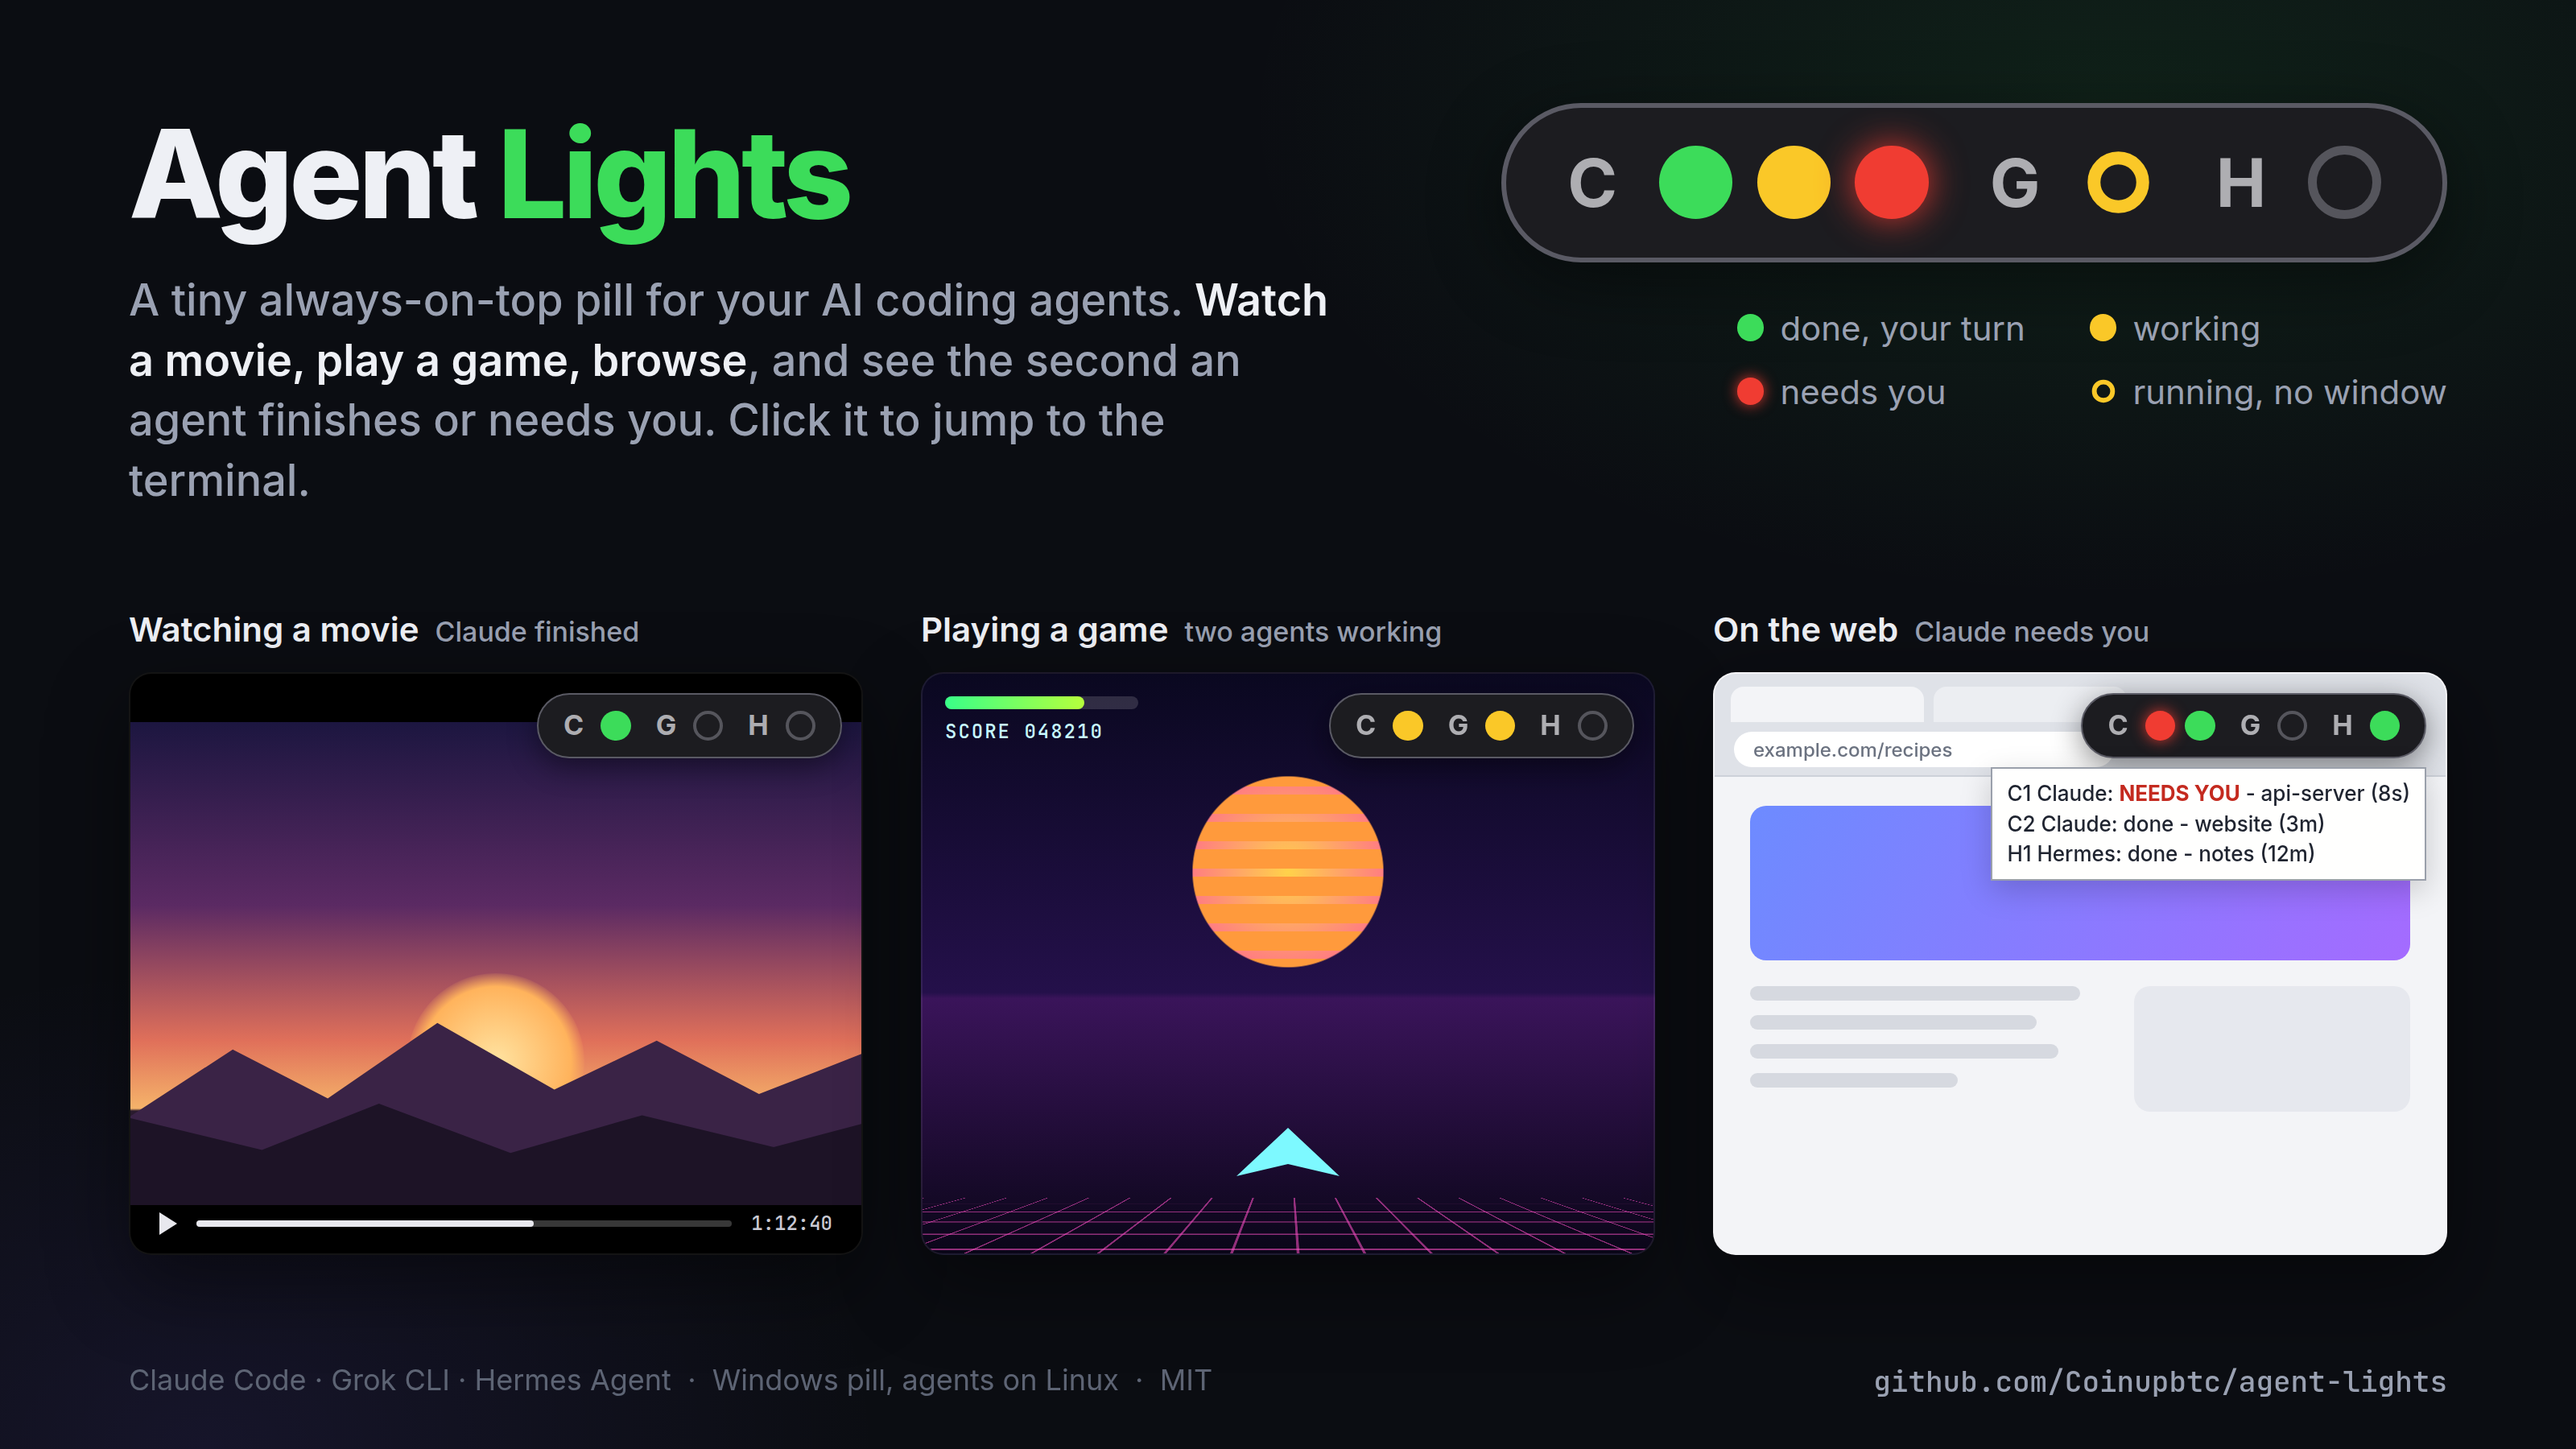
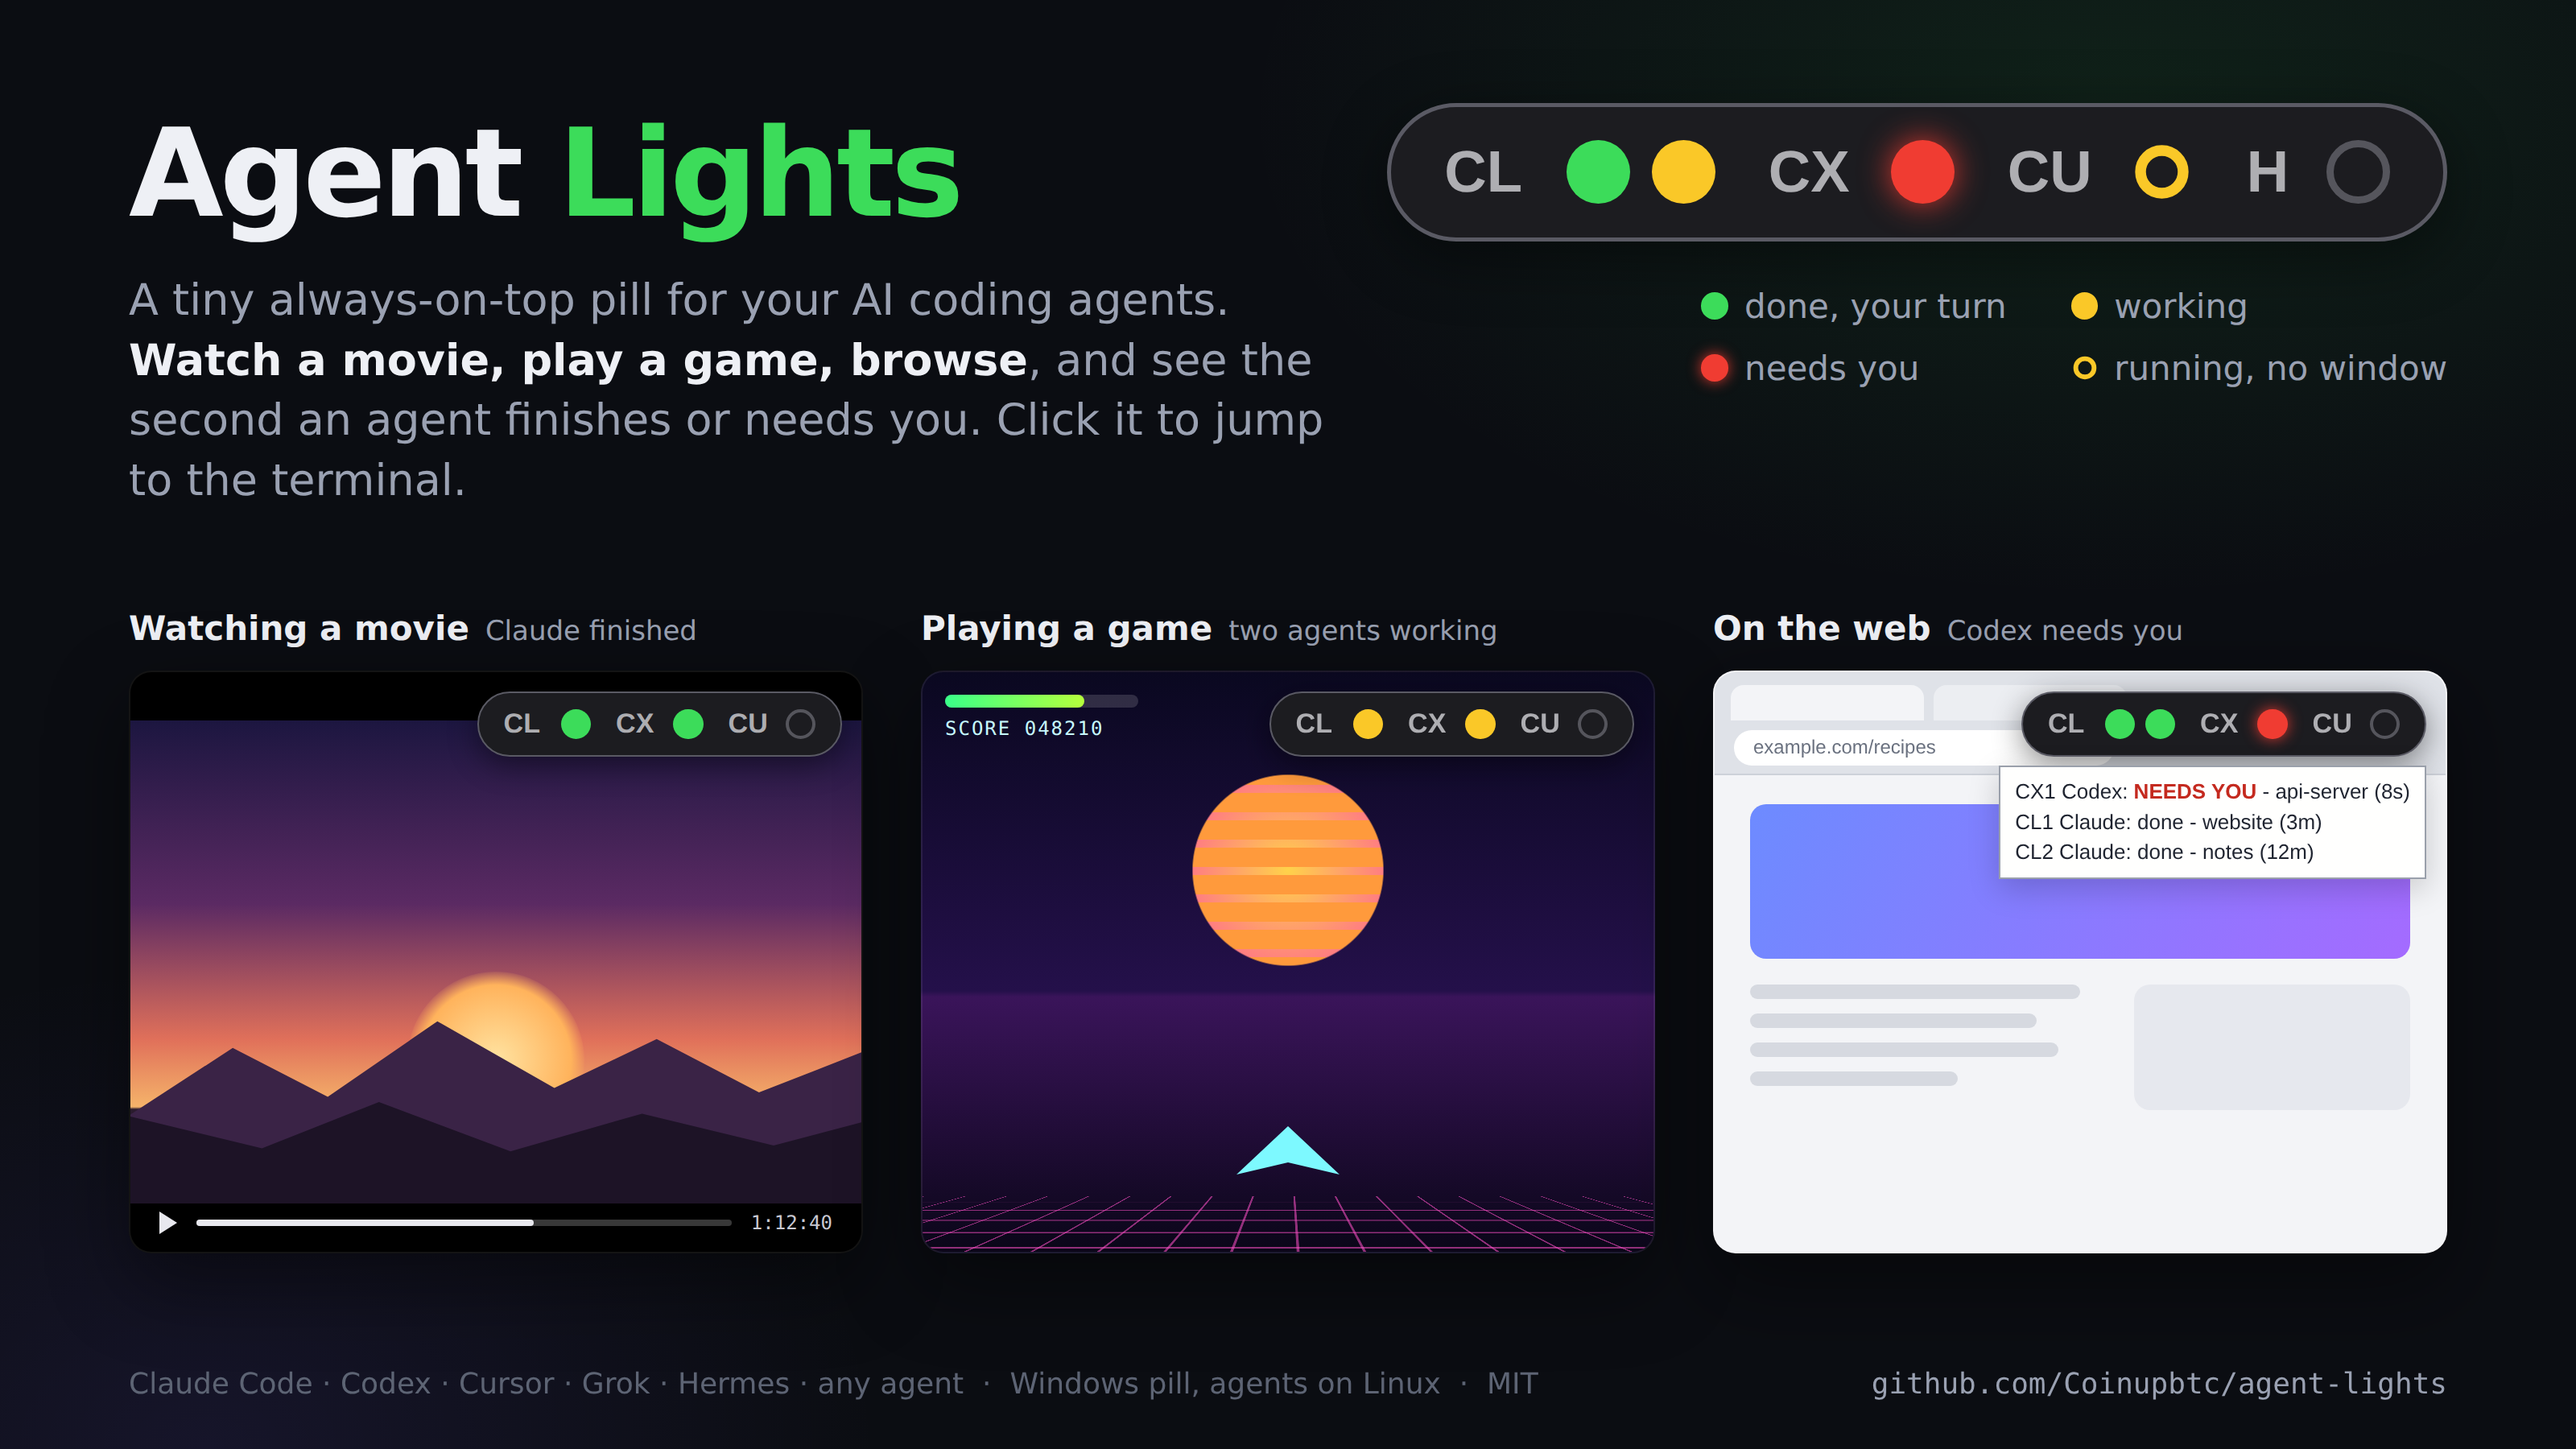
Capital two-letter tags (CL, CX, CU), new hero image, quote the server list
- Two-letter tags are capitals: in the pill's small bold font a lowercase l reads as I (Cl -> CI).
- Hero image shows Claude, Codex and Cursor side by side, with a Codex approval in the tooltip.
- The installer prints -Server "a:8777,b:8777" in quotes so PowerShell passes the list as one value.

diff --git a/docs/hero.html b/docs/hero.html
@@ -30,6 +30,7 @@
   .pill .l { font: 700 11em/1 "Segoe UI", Inter, sans-serif; color: rgba(200,200,205,.85); }
   .pill .gap { width: 10em; flex: none; }
   .pill .l { font-size: 11em; width: calc(15em / 11); flex: none; }
+  .pill .l.w2 { width: calc(23em / 11); }   /* two-letter tags (CL, CX, CU) */
   .d { width: 12em; height: 12em; border-radius: 50%; flex: none; }
   .d + .d { margin-left: 4em; }
   .d.g { background: var(--green); } .d.y { background: var(--yellow); }
@@ -45,7 +46,7 @@
   .sub b { color: var(--ink); font-weight: 600; }
 
   .closeup { position: absolute; right: 80px; top: 64px; display: flex; flex-direction: column; align-items: flex-end; }
-  .closeup .pill { --s: 3.8; }
+  .closeup .pill { --s: 3.3; }
   .legend { margin-top: 28px; display: grid; grid-template-columns: repeat(2, auto); justify-content: end; gap: 14px 40px;
             font-size: 21px; color: var(--muted); text-align: left; }
   .legend div { display: flex; align-items: center; gap: 10px; }
@@ -121,8 +122,9 @@
 
   <div class="closeup">
     <div class="pill">
-      <span class="l">C</span><i class="d g"></i><i class="d y"></i><i class="d r"></i>
-      <span class="gap"></span><span class="l">G</span><i class="d hy"></i>
+      <span class="l w2">CL</span><i class="d g"></i><i class="d y"></i>
+      <span class="gap"></span><span class="l w2">CX</span><i class="d r"></i>
+      <span class="gap"></span><span class="l w2">CU</span><i class="d hy"></i>
       <span class="gap"></span><span class="l">H</span><i class="d off"></i>
     </div>
     <div class="legend">
@@ -137,7 +139,7 @@
     <div>
       <div class="cap">Watching a movie <small>Claude finished</small></div>
       <div class="screen movie">
-        <div class="pill"><span class="l">C</span><i class="d g"></i><span class="gap"></span><span class="l">G</span><i class="d off"></i><span class="gap"></span><span class="l">H</span><i class="d off"></i></div>
+        <div class="pill"><span class="l w2">CL</span><i class="d g"></i><span class="gap"></span><span class="l w2">CX</span><i class="d g"></i><span class="gap"></span><span class="l w2">CU</span><i class="d off"></i></div>
         <div class="frame"><div class="sun"></div><div class="m1"></div><div class="m2"></div></div>
         <div class="bar"><div class="play"></div><div class="track"><i></i></div><div class="t">1:12:40</div></div>
       </div>
@@ -145,16 +147,16 @@
     <div>
       <div class="cap">Playing a game <small>two agents working</small></div>
       <div class="screen game">
-        <div class="pill"><span class="l">C</span><i class="d y"></i><span class="gap"></span><span class="l">G</span><i class="d y"></i><span class="gap"></span><span class="l">H</span><i class="d off"></i></div>
+        <div class="pill"><span class="l w2">CL</span><i class="d y"></i><span class="gap"></span><span class="l w2">CX</span><i class="d y"></i><span class="gap"></span><span class="l w2">CU</span><i class="d off"></i></div>
         <div class="orb"></div><div class="grid"></div><div class="ship"></div>
         <div class="hud"><div class="hp"><i></i></div><div class="score">SCORE 048210</div></div>
       </div>
     </div>
     <div>
-      <div class="cap">On the web <small>Claude needs you</small></div>
+      <div class="cap">On the web <small>Codex needs you</small></div>
       <div class="screen web">
-        <div class="pill"><span class="l">C</span><i class="d r"></i><i class="d g"></i><span class="gap"></span><span class="l">G</span><i class="d off"></i><span class="gap"></span><span class="l">H</span><i class="d g"></i></div>
-        <div class="tip">C1 Claude: <b>NEEDS YOU</b> - api-server (8s)<br>C2 Claude: done - website (3m)<br>H1 Hermes: done - notes (12m)</div>
+        <div class="pill"><span class="l w2">CL</span><i class="d g"></i><i class="d g"></i><span class="gap"></span><span class="l w2">CX</span><i class="d r"></i><span class="gap"></span><span class="l w2">CU</span><i class="d off"></i></div>
+        <div class="tip">CX1 Codex: <b>NEEDS YOU</b> - api-server (8s)<br>CL1 Claude: done - website (3m)<br>CL2 Claude: done - notes (12m)</div>
         <div class="chrome"><div class="tabs"><div class="tab on"></div><div class="tab"></div></div><div class="url">example.com/recipes</div></div>
         <div class="page">
           <div class="hero"></div>
@@ -165,6 +167,6 @@
     </div>
   </div>
 
-  <footer><span>Claude Code · Grok CLI · Hermes Agent &nbsp;·&nbsp; Windows pill, agents on Linux &nbsp;·&nbsp; MIT</span><span class="repo">github.com/Coinupbtc/agent-lights</span></footer>
+  <footer><span>Claude Code · Codex · Cursor · Grok · Hermes · any agent &nbsp;·&nbsp; Windows pill, agents on Linux &nbsp;·&nbsp; MIT</span><span class="repo">github.com/Coinupbtc/agent-lights</span></footer>
 </body>
 </html>

diff --git a/host/status_server.py b/host/status_server.py
@@ -3,8 +3,8 @@
 
 One dot per agent session running in a terminal tab. Two Claude tabs = two Claude dots. An agent
 with no tab shows one empty ring. Each agent gets a short tag drawn next to its dots: its first
-letter, or two letters when another agent on this machine starts with the same one (Claude and
-Codex -> Cl, Cx). ~/.config/agent-lights/config.json lists the agents to show and can set your own:
+letter, or two capitals when another agent on this machine starts with the same one (Claude and
+Codex -> CL, CX; capitals because a small lowercase l looks like an I). ~/.config/agent-lights/config.json lists the agents to show and can set your own:
   {"agents": ["claude", "codex", "hermes"], "tags": {"codex": "X"}}
 
 GET /status ->
@@ -57,11 +57,11 @@ CONFIG_FILE = os.environ.get("AGENT_LIGHTS_CONFIG") or os.path.expanduser("~/.co
 CLAUDE_PROJECTS = os.path.expanduser("~/.claude/projects")
 # agent key (the --agent name its hook uses) -> (name, tag when another agent here shares its first letter)
 KNOWN = {
-    "claude": ("Claude", "Cl"), "codex": ("Codex", "Cx"), "cursor": ("Cursor", "Cu"), "copilot": ("Copilot", "Co"),
-    "crush": ("Crush", "Cr"), "gemini": ("Gemini", "Ge"), "grok": ("Grok", "Gk"), "goose": ("Goose", "Go"),
-    "hermes": ("Hermes", "He"), "opencode": ("opencode", "Op"), "openclaw": ("OpenClaw", "Oc"),
-    "qwen": ("Qwen", "Qw"), "kiro": ("Kiro", "Ki"), "droid": ("Droid", "Dr"), "amp": ("Amp", "Am"),
-    "aider": ("Aider", "Ai"),
+    "claude": ("Claude", "CL"), "codex": ("Codex", "CX"), "cursor": ("Cursor", "CU"), "copilot": ("Copilot", "CO"),
+    "crush": ("Crush", "CR"), "gemini": ("Gemini", "GE"), "grok": ("Grok", "GK"), "goose": ("Goose", "GO"),
+    "hermes": ("Hermes", "HE"), "opencode": ("opencode", "OP"), "openclaw": ("OpenClaw", "OC"),
+    "qwen": ("Qwen", "QW"), "kiro": ("Kiro", "KI"), "droid": ("Droid", "DR"), "amp": ("Amp", "AM"),
+    "aider": ("Aider", "AD"),
 }
 WORKING_STALE_S = 30 * 60   # "working" with no event for 30 min -> show green, it's probably idle
 DROP_S = {"done": 24 * 3600, "working": 24 * 3600, "needs_you": 24 * 3600, "error": 24 * 3600, "ended": 60}
@@ -124,7 +124,7 @@ def _tags(agents: list, cfg: dict) -> dict:
         if len(first[f]) == 1 and f not in taken:
             tags[a] = f
         else:
-            tags[a] = KNOWN[a][1] if a in KNOWN else _name(a)[:2].title()
+            tags[a] = KNOWN[a][1] if a in KNOWN else _name(a)[:2].upper()
     return tags
 
 

diff --git a/README.md b/README.md
@@ -17,7 +17,7 @@ One dot per agent session running in a terminal tab. Two Claude tabs = two Claud
 | anything else | one command from its hooks: [Any other agent](#any-other-agent) | | |
 
 Each agent's dots get a short tag: its first letter, or two letters when two of your agents share one. Claude
-alone is **C**; Claude, Codex and Cursor together are **Cl**, **Cx** and **Cu**. Hover the pill to see which is which.
+alone is **C**; Claude, Codex and Cursor together are **CL**, **CX** and **CU**. Hover the pill to see which is which.
 
 | Dot | Meaning |
 |---|---|
